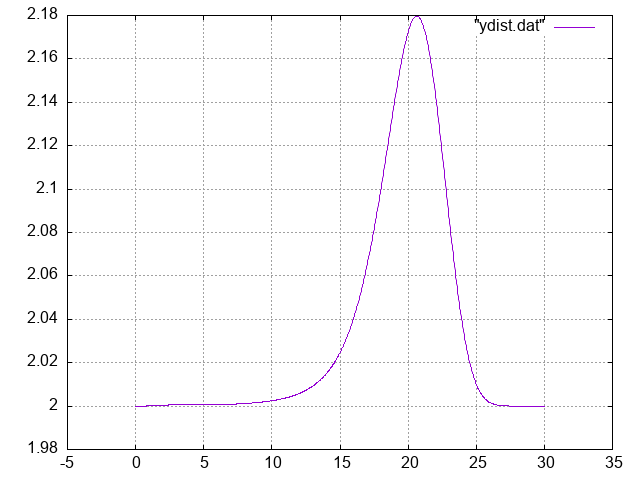
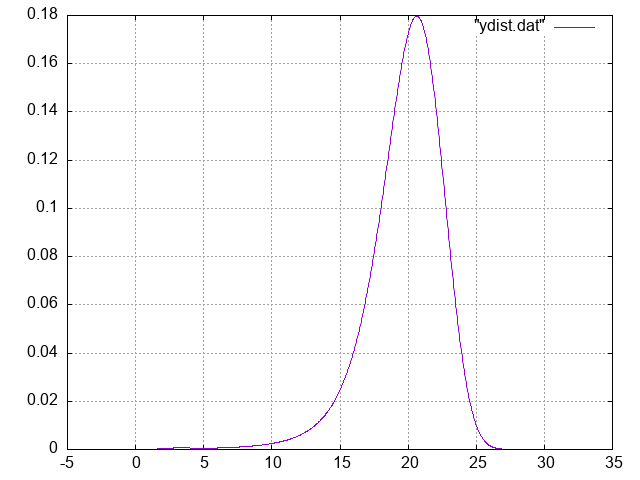
correction

diff --git a/advection2D.c b/advection2D.c
@@ -229,7 +229,7 @@ int main(){
       vert_avg += u[i][j];
       // fprintf(ydistfile, "%g %g\n", y[j], u[i][j]);
     }
-    vert_avg = vert_avg/NY+2;
+    vert_avg = vert_avg/NY;
     fprintf(ydistfile, "%g %g\n", x[i], vert_avg);
   }
   
